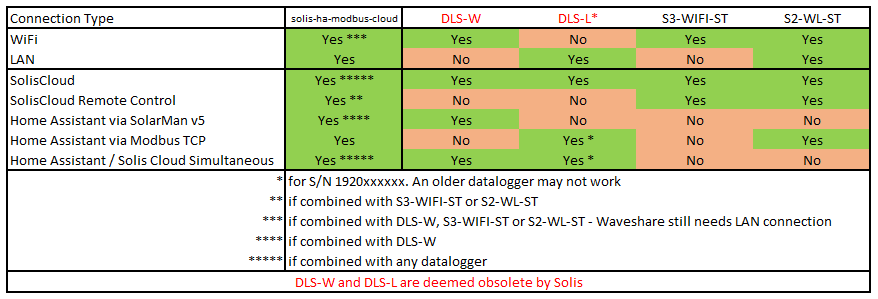
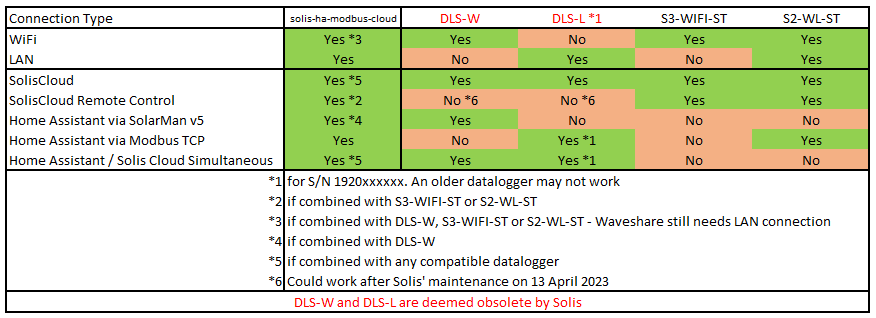
Update about obsolete dataloggers and Solis Maintenance

Changed region(s): [[0.0, 0.0, 1.0, 0.9933]]

diff --git a/README.md b/README.md
@@ -14,6 +14,8 @@ You can watch a great video from `Gordon Markus` summarising his 12-months exper
 ## Description
 The main goal is to ensure that a datalogger can work as normal and without any distruption. The datalogger acts as the Master device, and it talks directly to the inverter (Slave). Having an additional Master (e.g., Waveshare Gateway) on the same RS485 network is to create collisions, which could affect all RS485 devices. Some dataloggers don't accept multiple TCP connections (e.g., `S2-WL-ST`), and those will disconnect the Solis Cloud whenever used with an integration; others don't support Modbus TCP (e.g., `DLS-W`, `S3-WIFI-ST`), and some will fully rely on the cloud (`S3-WIFI-ST`). Some obsolete dataloggers couldn't provide `remote` functionality via Solis Cloud (e.g., `DLS-W`, `DLS-L`).
 
+**However, there are reports that `remote` functionality started working with obsolete dataloggers after Solis' maintenance on 13 April 2023.**
+
 Here it comes the Waveshare gateway to query the inverter. It can serve multiple clients, keep the inverter's cloud reporting functionality,  and is not limited by any supported datalogger. The below is my configuration, but the use case could differ per datalogger.
 
 ![Diagram](/images/solis-custom-diagram.png)
